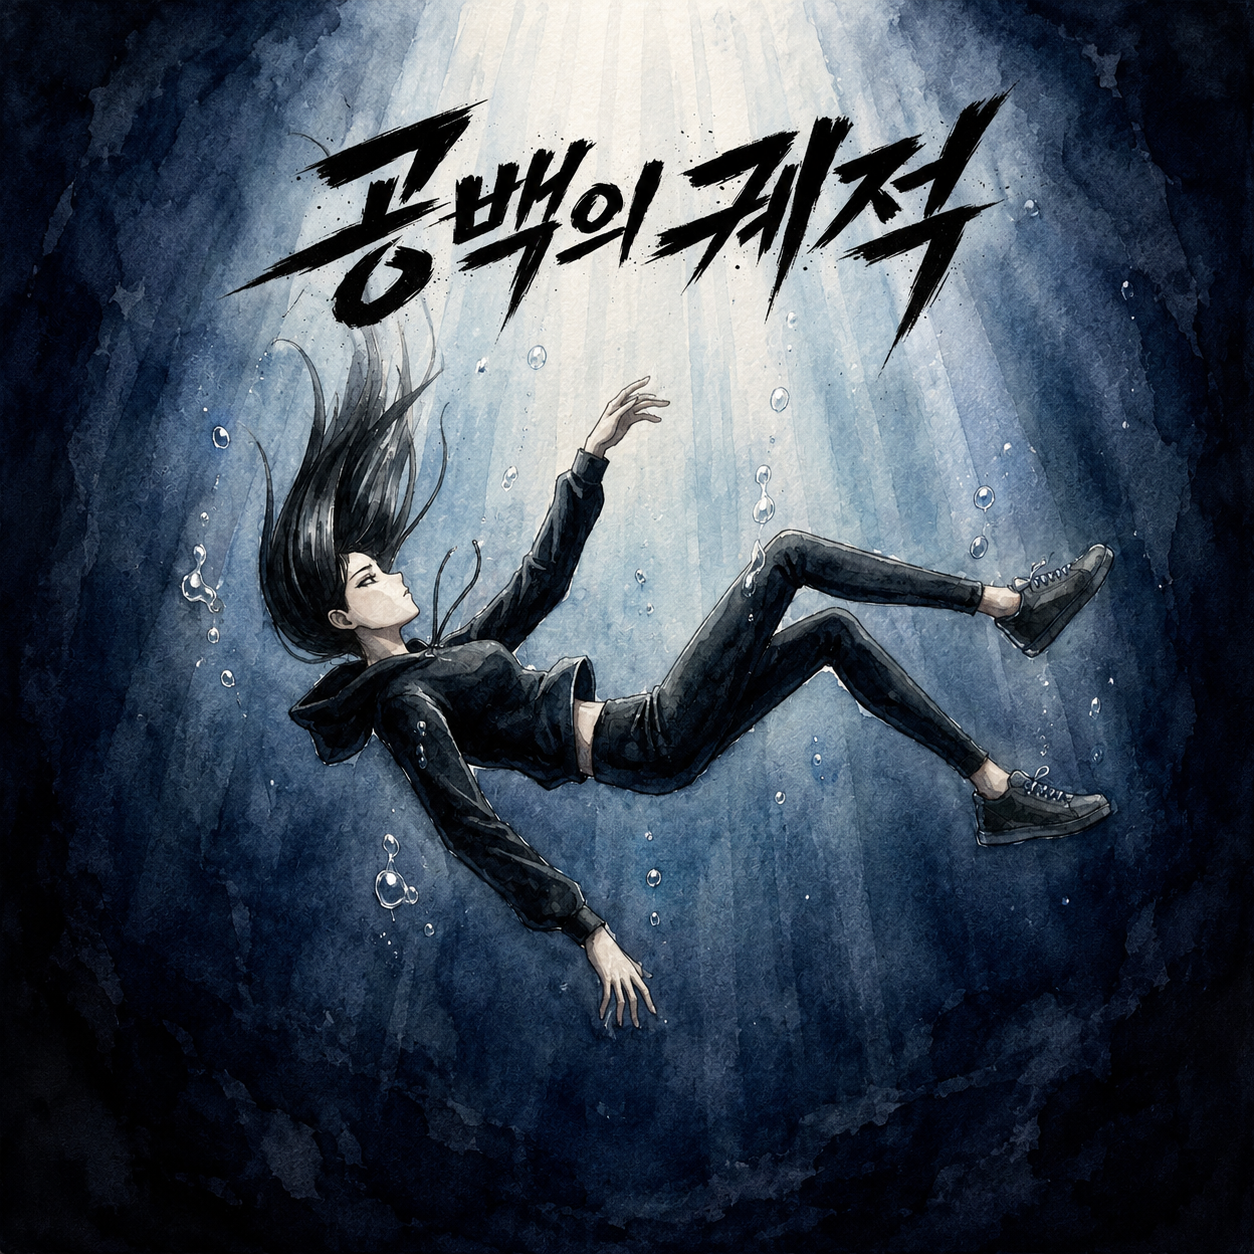
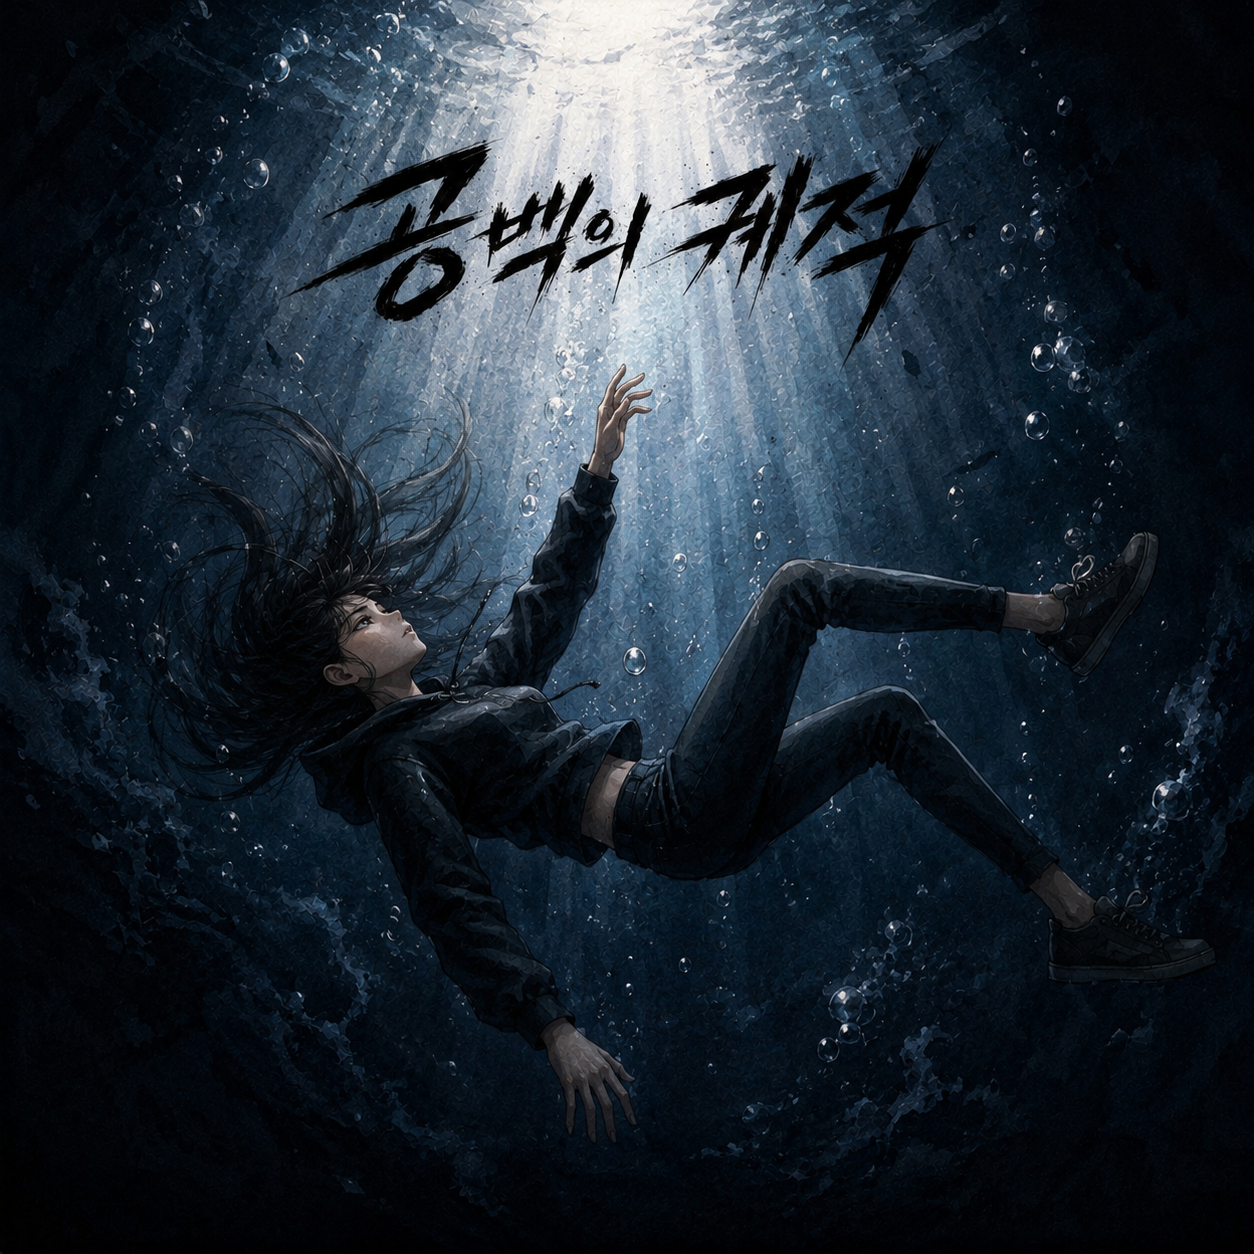
Apply updated album art (acoustic + alternative version PNGs)
User added:
- 떡볶이 노래.png       (replaces 떡볶이.png for 03)
- 공백의 궤적Accoustic Version.png   (for 04.1)
- Emperor in Adelie Alternative Version.png  (for 05.1)
- updated 공백의 궤적.png

The fuzzy matcher needed work to keep up:

- '떡볶이 노래' doesn't substring-match the full track title
  '이번 크리스마스엔 그냥 떡볶이가 먹고 싶어' anymore. Switch from
  bidirectional substring lookup to a longest-shared-substring score
  (with a 3-char floor) so partial overlaps like '떡볶이' still count.

- Score is weighted: own-title match × 100 + base-title match, so a
  PNG that includes the X.Y track's own differentiator (Accoustic /
  Alternative) beats the plain base PNG even though both share the
  base name.

- Ties are broken by preferring the shorter PNG, so a generic
  '공백의 궤적.png' / 'Emperor in Adelie.png' wins for 04/05 over
  longer derivatives that just happen to contain the base name.

diff --git a/build.py b/build.py
@@ -82,38 +82,83 @@ def _normalize_title(s: str) -> str:
     return s.lower()
 
 
+def _longest_shared_substring_len(a: str, b: str, min_len: int = 3) -> int:
+    """Length of the longest substring of `a` that also appears in `b`.
+    Returns 0 if no shared substring of at least min_len characters."""
+    if not a or not b:
+        return 0
+    n = len(a)
+    best = 0
+    for i in range(n):
+        for j in range(i + min_len, n + 1):
+            if a[i:j] in b:
+                if j - i > best:
+                    best = j - i
+            else:
+                # Extending further can't match if shorter prefix doesn't.
+                break
+    return best
+
+
 def find_album_art_override(title: str, title_from_file: str | None,
                              base_title: str | None = None) -> Path | None:
-    """Match an MP3 to a PNG in album art/ by normalised title.
-    Exact match wins; otherwise a substring match (either direction) is enough.
-    base_title lets X.Y tracks fall back to the base X track's title — e.g.
-    '엠퍼러 인 아델리 (Alternative)' won't match 'Emperor in Adelie.png' on its own,
-    but it will if base_title='엠퍼러 인 아델리 (Emperor in Adélie)' is provided."""
+    """Match an MP3 to a PNG in album art/.
+
+    Strategy:
+      1. Exact normalised match against the track's own title wins immediately.
+      2. Otherwise score each PNG by how much of its name overlaps with the
+         track's own title vs the base title (for X.Y variants). Score is
+         weighted so a match against the track's own title beats a match
+         against the base title — so '공백의 궤적Accoustic Version.png' wins
+         over '공백의 궤적.png' for 04.1, and 'Emperor in Adelie Alternative
+         Version.png' wins over 'Emperor in Adelie.png' for 05.1 even though
+         both share the base name.
+    """
     if not ALBUM_ART_DIR.exists():
         return None
-    candidates = [_normalize_title(title)]
-    if title_from_file:
-        candidates.append(_normalize_title(title_from_file))
-    if base_title:
-        candidates.append(_normalize_title(base_title))
-    candidates = [c for c in candidates if c]
+
+    own_norms: list[str] = []
+    for s in (title, title_from_file):
+        if s:
+            n = _normalize_title(s)
+            if n and n not in own_norms:
+                own_norms.append(n)
+    base_norm = _normalize_title(base_title) if base_title else ""
 
     pngs = sorted(ALBUM_ART_DIR.glob("*.png"))
-    # First pass: exact normalized match.
+
+    # 1. Exact match against the track's own title wins immediately.
     for png in pngs:
         norm = _normalize_title(png.stem)
-        if norm and norm in candidates:
+        if norm and norm in own_norms:
             return png
-    # Second pass: substring match — handles abbreviated names like
-    # "떡볶이.png" matching "이번 크리스마스엔 그냥 떡볶이가…".
+
+    # 2. Score the rest. Match against the track's own title is worth 100x
+    #    a match against the base title — so an X.Y-specific PNG always beats
+    #    the base track's PNG when both share the base name. Ties are broken
+    #    by preferring the SHORTER PNG name (more entirely explained by the
+    #    track), so the plain 'Emperor in Adelie.png' wins for 05 over
+    #    'Emperor in Adelie Alternative Version.png' (both match emperorinadelie).
+    best_png = None
+    best_score: tuple[int, int] = (-1, 0)
     for png in pngs:
         norm = _normalize_title(png.stem)
         if not norm:
             continue
-        for cand in candidates:
-            if norm in cand or cand in norm:
-                return png
-    return None
+        own_match = max(
+            (_longest_shared_substring_len(norm, c) for c in own_norms),
+            default=0,
+        )
+        base_match = (
+            _longest_shared_substring_len(norm, base_norm) if base_norm else 0
+        )
+        if own_match == 0 and base_match == 0:
+            continue
+        score = (own_match * 100 + base_match, -len(norm))
+        if score > best_score:
+            best_score = score
+            best_png = png
+    return best_png
 
 
 def extract_lyrics(audio: MP3) -> str | None:
